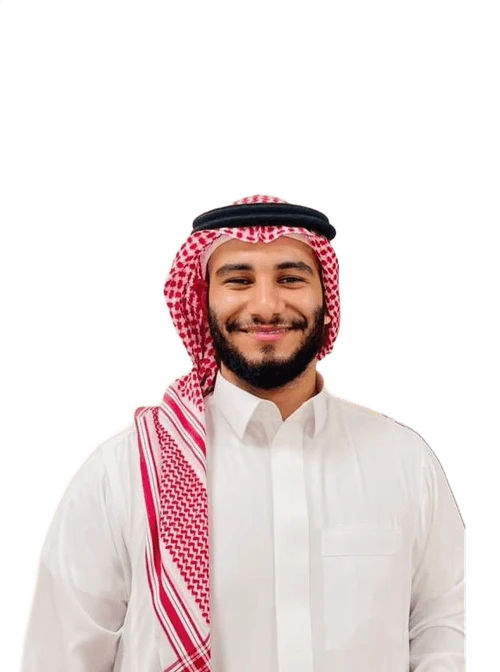
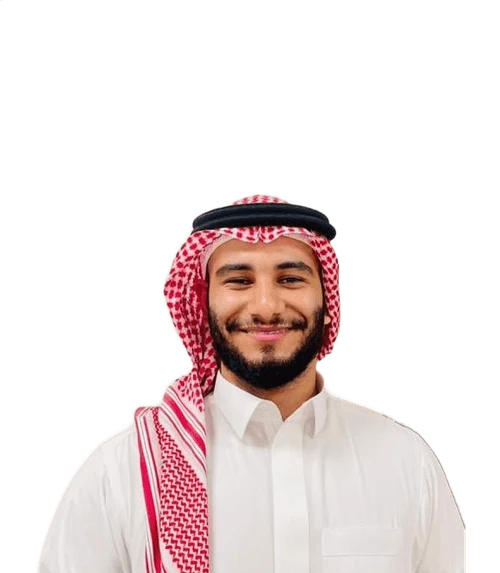
Uniform member cut-outs: same bust framing and pop for all four
Salmeen and Ghalia re-cropped to the exact head-and-shoulders ratio of
Cindy/Bowen (500:573), so heads render at the same scale; member imgs
now width:100% of the block (pop ~14%, flush bottom, cut edges align
with block sides). Ghalia's white hair-halo fringe cleared.

Claude-Session: https://claude.ai/code/session_01CBgqScbhJyaaDiTg7zStd2

Changed region(s): [[0.03, 0.267, 0.93, 1.0], [0.54, 0.801, 0.57, 0.9197]]

diff --git a/team.html b/team.html
@@ -85,12 +85,12 @@
     <div class="sec-top rv"><h2>The team</h2></div>
     <div class="tgrid four rv">
       <button class="tcard mat" type="button" data-i="3" style="--blk:#b9cbdb;--blkD:#a9bfd2">
-        <span class="box"><img src="assets/salmeen_cutout.webp" alt="Salmeen Binmahfooz"/></span>
+        <span class="box"><img src="assets/salmeen_cutout.webp?v=2" alt="Salmeen Binmahfooz"/></span>
         <span class="nm">Salmeen Binmahfooz</span>
         <span class="rl">KSA Chief of Staff</span>
       </button>
       <button class="tcard mat" type="button" data-i="4" style="--blk:#d6ad64;--blkD:#cda254">
-        <span class="box"><img src="assets/ghalia_cutout.webp" alt="Ghalia Badokhon"/></span>
+        <span class="box"><img src="assets/ghalia_cutout.webp?v=2" alt="Ghalia Badokhon"/></span>
         <span class="nm">Ghalia Badokhon</span>
         <span class="rl">Jeddah Lead</span>
       </button>

diff --git a/css/main.css b/css/main.css
@@ -328,7 +328,7 @@ a.idx-row:hover .desc .go-hint{transform:translateX(5px)}
 @media(max-width:760px){.tgrid{grid-template-columns:1fr;max-width:400px;margin:0 auto;row-gap:76px}}
 /* team page: member cards — smaller pop-out squares, no initials */
 .tgrid.four{grid-template-columns:repeat(4,1fr);gap:clamp(20px,3vw,40px);padding-top:clamp(36px,4vw,56px)}
-.tcard.mat .box img{height:108%}
+.tcard.mat .box img{width:100%;height:auto}
 .tcard.mat .nm{font-size:clamp(18px,1.7vw,21px);margin-top:16px}
 .tcard.mat .rl{font-size:11.5px}
 @media(max-width:900px){.tgrid.four{grid-template-columns:repeat(2,1fr)}}
